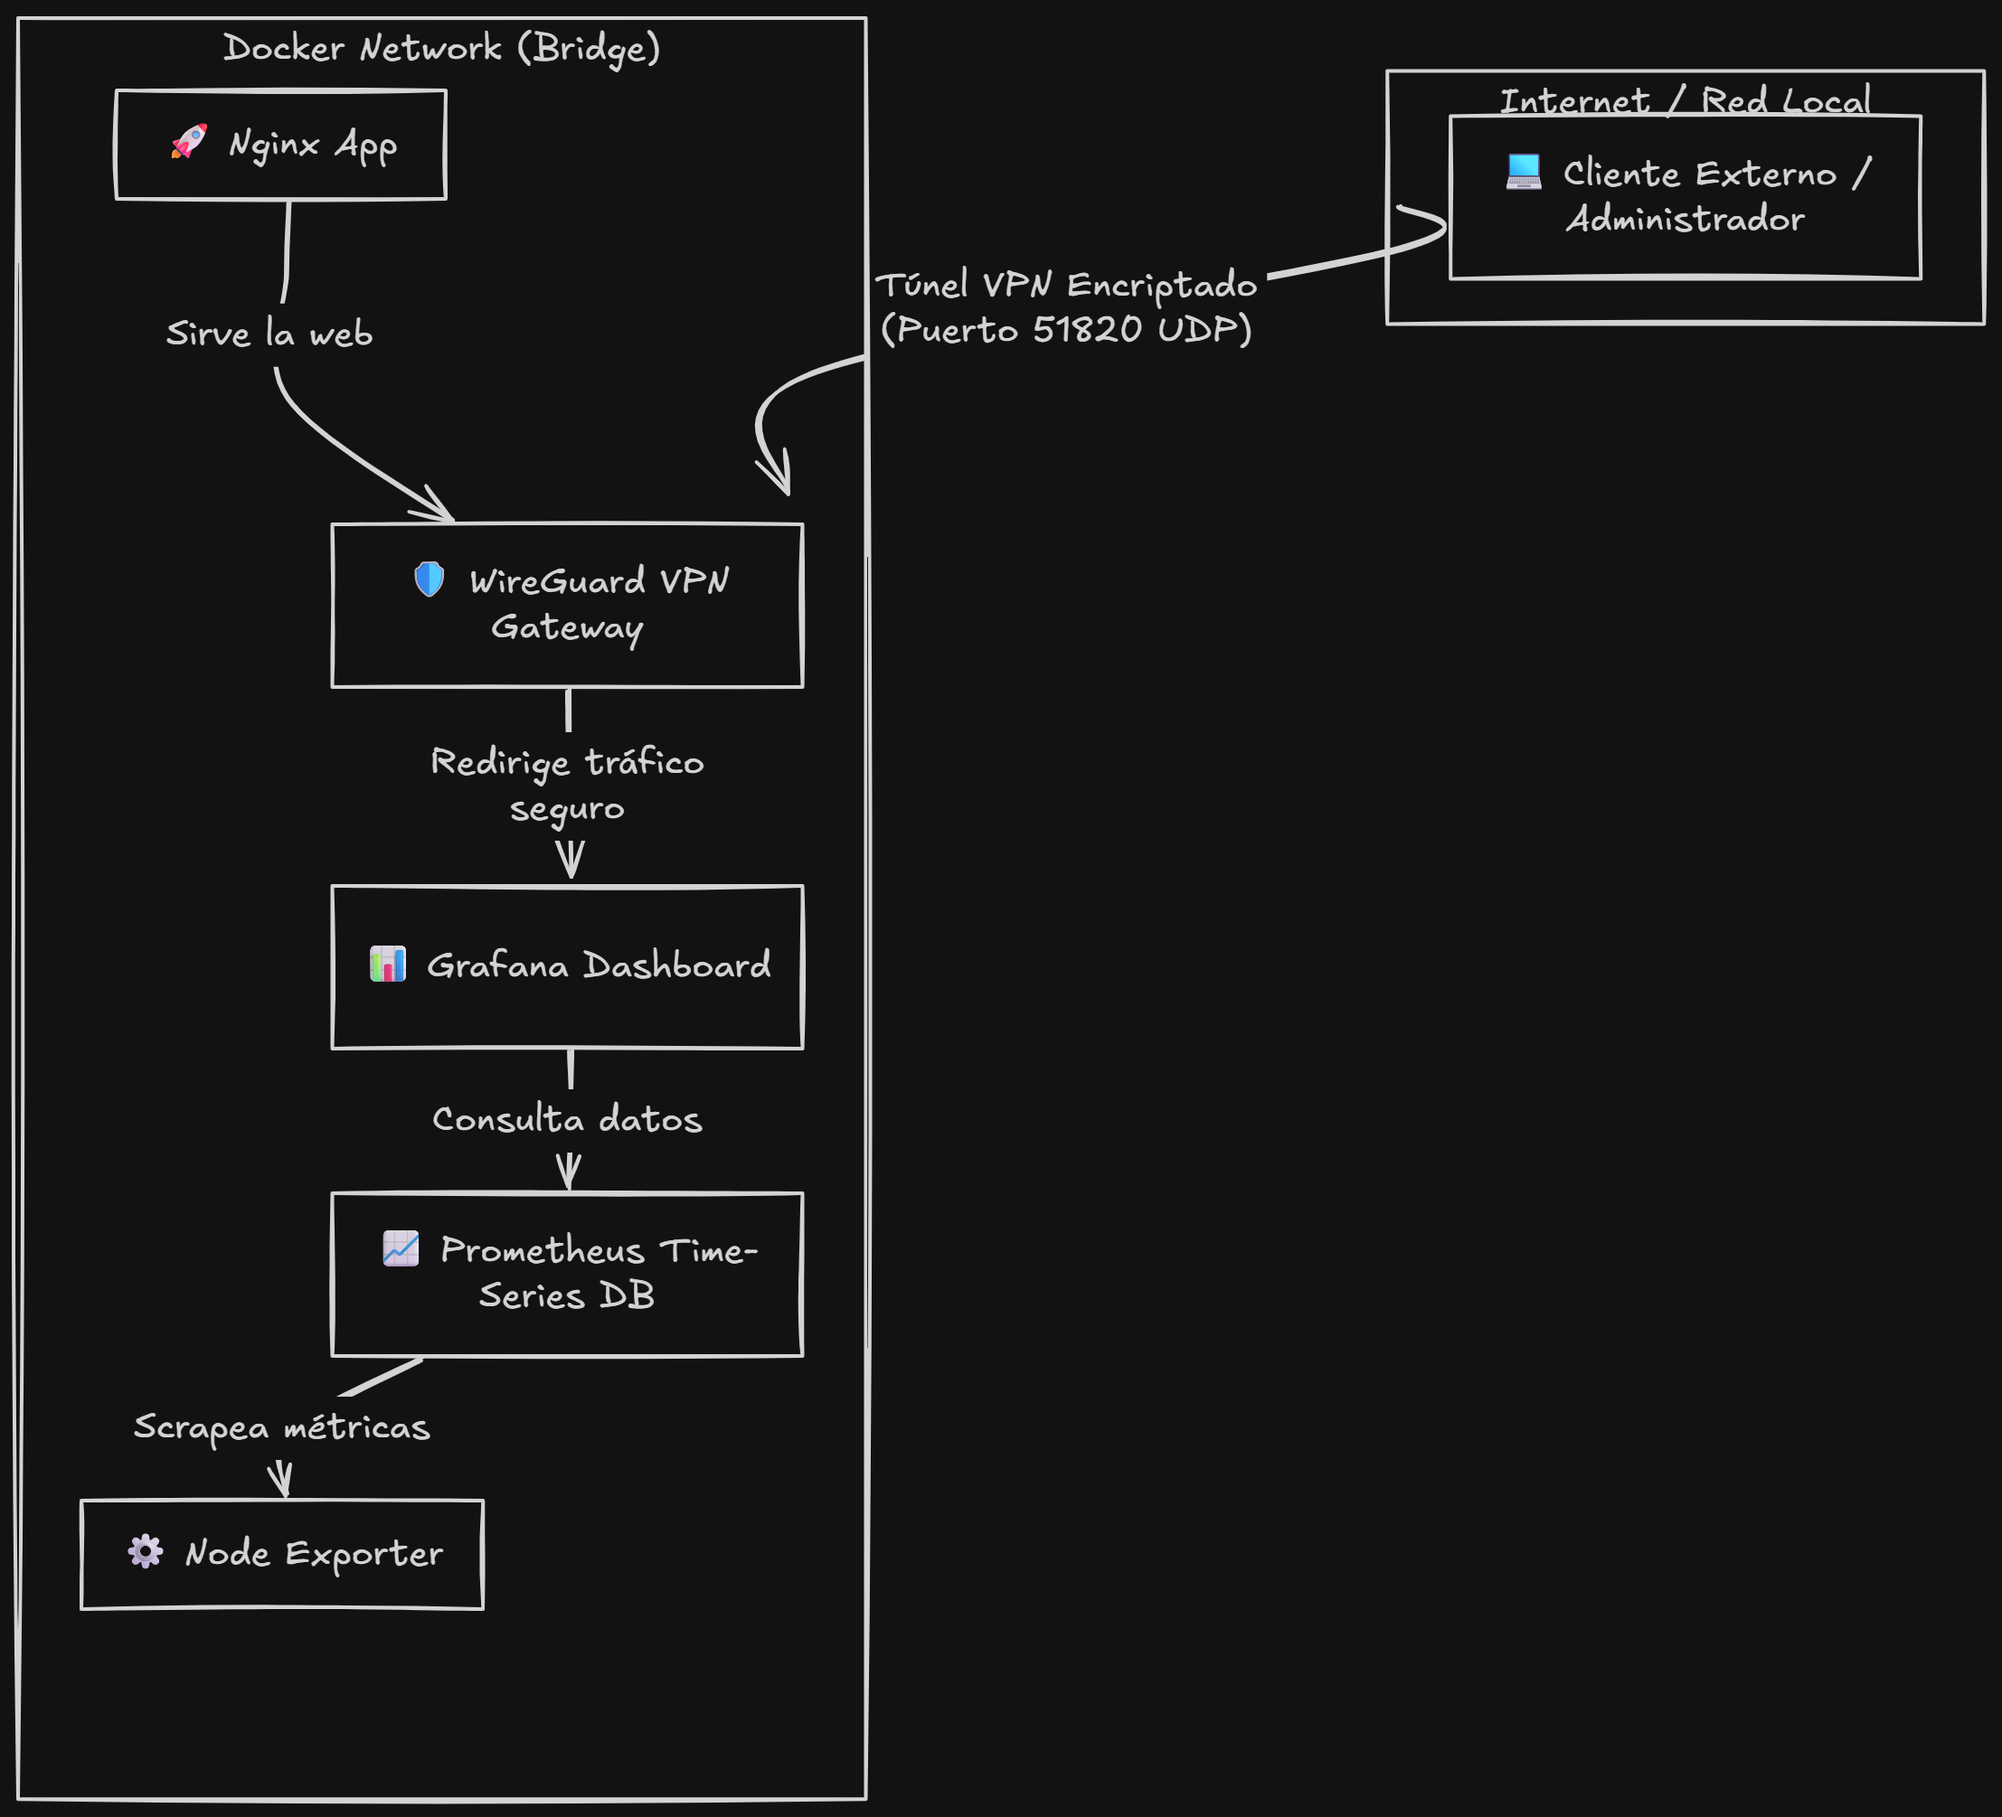
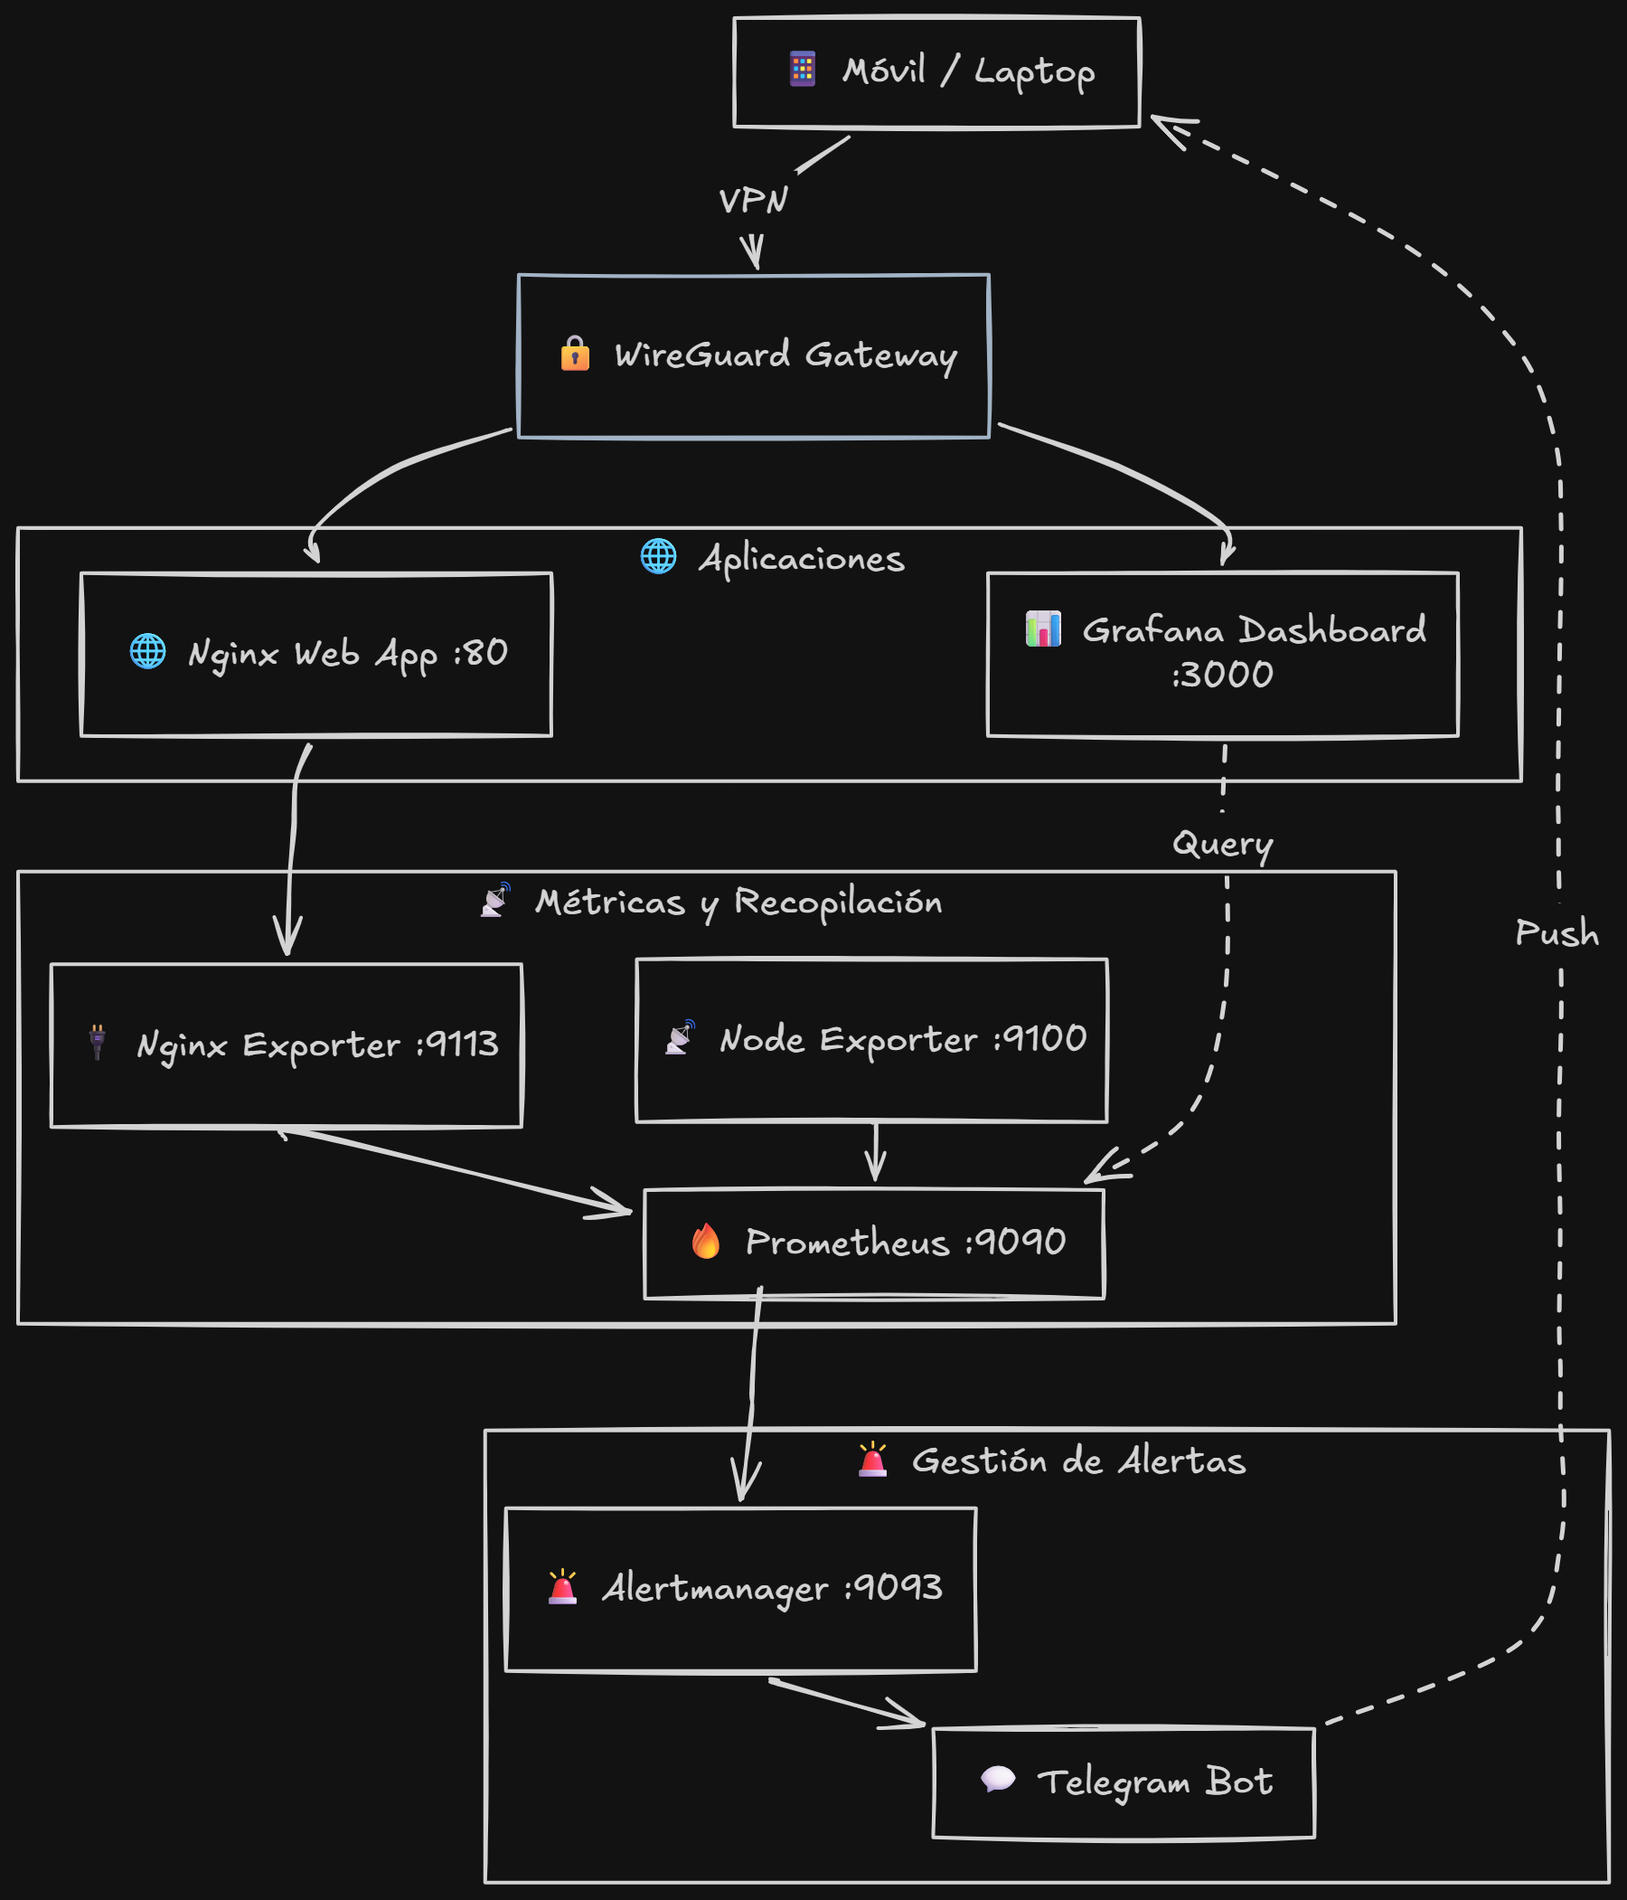
feat(monitoring): add nginx-exporter and move telegram keys to env template

diff --git a/README.md b/README.md
@@ -2,7 +2,7 @@
 
 Este es un template modular e inteligente de observabilidad y VPN seguro, diseñado para poder ser acoplado a **cualquier proyecto** de manera extremadamente sencilla.
 
-![Arquitectura del Proyecto](arquitecturaDockerObs.png)
+<img src="arquitecturaDockerObs.png" width="650" alt="Arquitectura del Proyecto">
 
 ## Componentes del Stack
 - **WireGuard (WG-Easy)**: Gateway VPN seguro con panel web de administración para gestionar clientes, descargar configuraciones y ver códigos QR de forma visual.
@@ -92,3 +92,13 @@ Cuando levantas el stack por primera vez, puedes entrar al panel web de administ
 * Podrás ver y escanear el código QR directamente en tu móvil usando la aplicación de WireGuard.
 * También puedes descargar el fichero `.conf` para importarlo en tu portátil.
 * **Nota para testing local (Wi-Fi)**: Si pruebas la conexión VPN desde tu móvil dentro de la misma red local Wi-Fi, edita los ajustes del túnel importado en tu móvil y cambia el campo **Allowed IPs** (IPs permitidas) de `0.0.0.0/0` a `10.8.0.0/24` para habilitar el *Split Tunneling* y evitar perder tu conexión a internet general.
+* **Seguridad en la Nube (VPS)**: Si despliegas este stack en un servidor en la nube (AWS, DigitalOcean, etc.), el único puerto que debes dejar abierto al público en el firewall del proveedor es el **`51820` (UDP)** de WireGuard. Todos los demás puertos (`8080`, `3000`, `9090`, `51821`) deben permanecer **cerrados** al público exterior, garantizando que solo los usuarios conectados a la VPN puedan acceder a ellos.
+
+---
+
+## 📸 Captura de Alertas en Telegram
+
+Ejemplo real de las notificaciones que envía Prometheus y Alertmanager automáticamente a Telegram al caerse un servicio y su posterior resolución:
+
+<img src="Screenshot_9.png" width="300" alt="Ejemplo de Alertas de Telegram de la Observabilidad">
+
